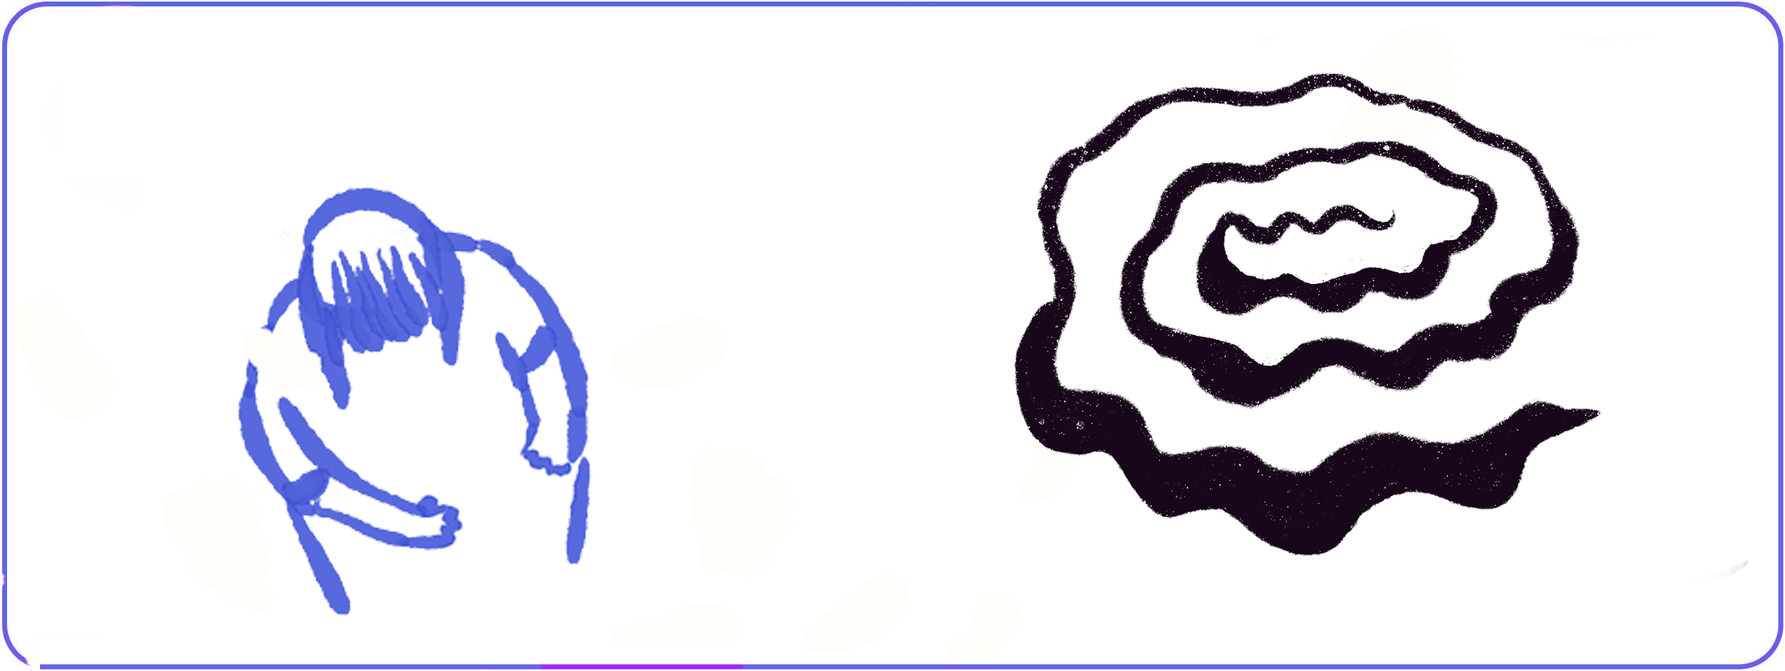
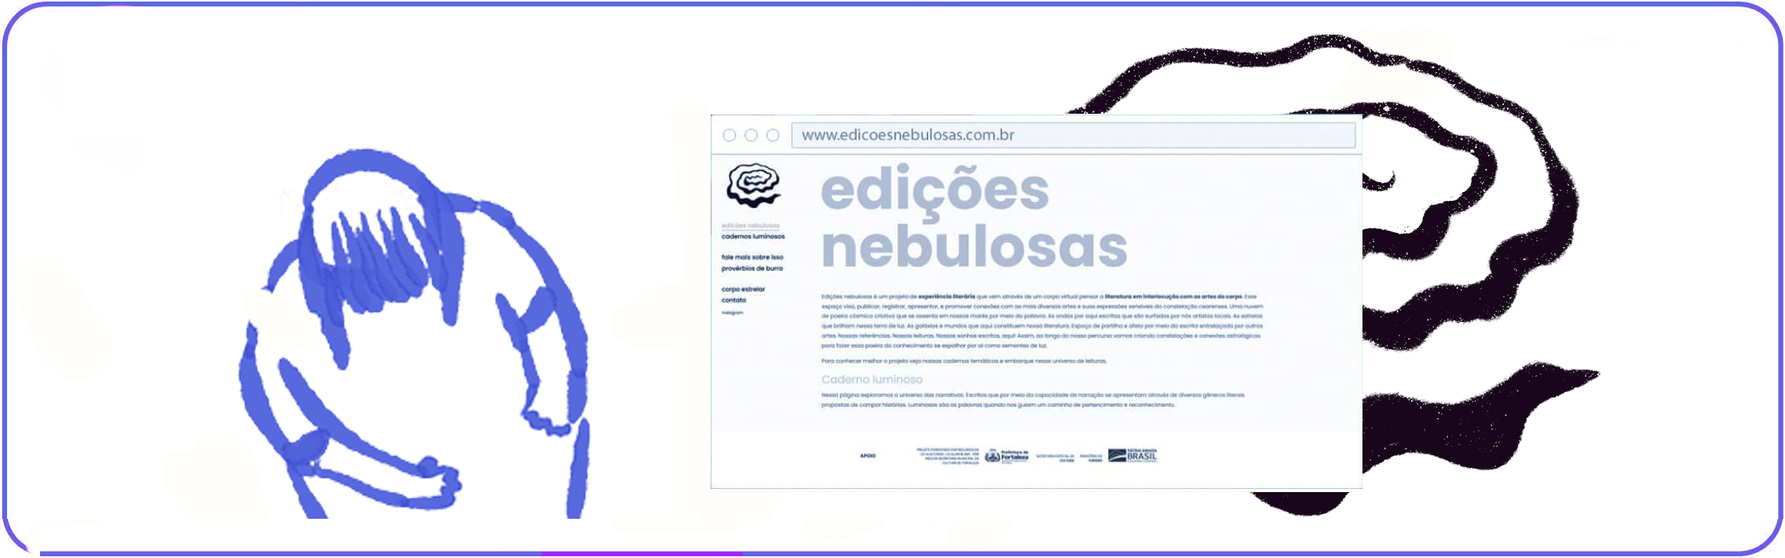
Cases

diff --git a/_site/Nebulosas.html b/_site/Nebulosas.html
@@ -4,7 +4,7 @@
   <meta charset="utf-8">
   <meta name="viewport" content="width=device-width, initial-scale=1.0">
   <title>Edições Nebulosas</title>
-  <meta name="description" content="Leeer é um estudo de caso/projeto pessoal inciado a partir de um prompt do curso de UX Design Master do Google/Coursera.">
+  <meta name="description" content="Projeto de experiência literária que pensa a interlocução entre literatura e as artes do corpo.">
   <link rel="canonical" href="http://localhost:4000/Nebulosas">
   <link rel="alternate" type="application/rss+xml" title="Daniel Neves - UX Designer Feed"
     href="http://localhost:4000/feed.xml">
@@ -61,7 +61,7 @@
     <header class="post-header">
       <h1 class="post-title">Edições Nebulosas</h1>
       <div class="post-meta">
-        <span class="post-tags"> in <a href="/tags/#ux" rel="tag">ux</a>, <a href="/tags/#ilustra%C3%A7%C3%A3o" rel="tag">ilustração</a>, <a href="/tags/#designgr%C3%A1fico" rel="tag">designgráfico</a></span>
+        <span class="post-tags"><a href="/tags/#ux" rel="tag">ux</a>, <a href="/tags/#ilustra%C3%A7%C3%A3o" rel="tag">ilustração</a>, <a href="/tags/#designgr%C3%A1fico" rel="tag">designgráfico</a></span>
       </div><!-- .post-meta -->
       
       <figure class="post-thumbnail image-card width-wide">
@@ -70,49 +70,29 @@
       
     </header><!-- .post-header -->
     <div class="post-content">
-      <p>O protótipo do último projeto em UX/UI Design que está sendo desenvolvido pode ser acessado <a href="https://bit.ly/leeeer_figma">aqui</a>.</p>
-
-<p>A graphic designer is a professional within the graphic design and graphic arts industry who assembles together images, typography, or motion graphics to create a piece of design. A graphic designer creates the graphics primarily for published, printed or electronic media, such as brochures (sometimes) and advertising. They are also sometimes responsible for typesetting, illustration, user interfaces, web design, or take a teaching position. A core responsibility of the designer’s job is to present information in a way that is both accessible and memorable.</p>
+      <p><em>Edições nebulosas</em> é um projeto de experiência literária que pensa a interlocução entre literatura e as artes do corpo. É um espaço que visa, publicar, registrar, apresentar e promover conexões com as mais diversas expressões artísticas e culturais do Ceará por meio da escrita. O projeto pode ser acessado através do link: <a href="https://edicoesnebulosas.github.io/">Edições Nebulosas online</a>.</p>
 
 <!--more-->
 
-<p>A degree or certificate from an accredited trade school is usually considered essential for a graphic design position. After a career history has been established, though, the graphic designer’s experience and number of years in the business are considered the primary qualifications. A portfolio, which is the primary method for demonstrating these qualifications, is usually required to be shown at job interviews, and is constantly developed throughout a designer’s career. [<a href="https://en.wikipedia.org/wiki/Graphic_designer">Source</a>]</p>
+<p>O conceito do projeto partiu do ator dramaturgo <a href="instagram.com/omarcosmiramar/">Marcos Miramar</a> e tive a oportunidade de desenvolver a identidade visual, ilustrações e desenvolvimento front-end.</p>
 
-<p>Ice molecules can exhibit up to sixteen different phases <em>(packing geometries)</em> that depend on temperature and pressure. When water is cooled rapidly (quenching), up to three different types of amorphous ice can form depending on the history of its pressure and temperature. When cooled slowly correlated proton tunneling occurs below 20 K giving rise to macroscopic quantum phenomena. Virtually all the ice on Earth’s surface and in its atmosphere is of a hexagonal crystalline structure denoted as ice Ih (spoken as “ice one h”) with minute traces of cubic ice denoted as ice Ic. The most common phase transition to ice Ih occurs when liquid water is cooled below 0°C (273.15K, 32°F) at standard atmospheric pressure. It may also be deposited directly by water vapor, as happens in the formation of frost. The transition from ice to water is melting and from ice directly to water vapor is sublimation.</p>
-
-<h2 id="characteristics">Characteristics</h2>
-
-<p>As a naturally-occurring crystalline inorganic solid with an ordered structure, ice is considered a mineral.[citation needed] It possesses a regular crystalline structure based on the molecule of water, which consists of a single oxygen atom covalently bonded to two hydrogen atoms, or H-O-H. However, many of the physical properties of water and ice are controlled by the formation of hydrogen bonds between adjacent oxygen and hydrogen atoms; while it is a weak bond, it is nonetheless critical in controlling the structure of both water and ice.</p>
-
-<blockquote>
-  <p>“ice contains no future , just the past, sealed away. As if they’re alive, everything in the world is sealed up inside, clear and distinct. Ice can preserve all kinds of things that way- cleanly, clearly. That’s the essence of ice, the role it plays.” 
-<cite>― Haruki Murakami</cite></p>
-</blockquote>
-
-<p>An unusual property of ice frozen at atmospheric pressure is that the solid is approximately 8.3% less dense than liquid water. The density of ice is 0.9167 g/cm3 at 0 °C,[4] whereas water has a density of 0.9998 g/cm³ at the same temperature. Liquid water is densest, essentially 1.00 g/cm³, at 4 °C and becomes less dense as the water molecules begin to form the hexagonal crystals[5] of ice as the freezing point is reached. This is due to hydrogen bonding dominating the intermolecular forces, which results in a packing of molecules less compact in the solid. Density of ice increases slightly with decreasing temperature and has a value of 0.9340 g/cm³ at −180 °C (93 K).[6]</p>
-
-<p>When water freezes, it increases in volume (about 9% for freshwater).[7] The effect of expansion during freezing can be dramatic, and ice expansion is a basic cause of freeze-thaw weathering of rock in nature and damage to building foundations and roadways from frost heaving. It is also a common cause of the flooding of houses when water pipes burst due to the pressure of expanding water when it freezes.</p>
-
-<p>The result of this process is that ice <em>(in its most common form)</em> floats on liquid water, which is an important feature in Earth’s biosphere. It has been argued that without this property, natural bodies of water would freeze, in some cases permanently, from the bottom up,[8] resulting in a loss of bottom-dependent animal and plant life in fresh and sea water. Sufficiently thin ice sheets allow light to pass through while protecting the underside from short-term weather extremes such as wind chill. This creates a sheltered environment for bacterial and algal colonies. When sea water freezes, the ice is riddled with brine-filled channels which sustain sympagic organisms such as bacteria, algae, copepods and annelids, which in turn provide food for animals such as krill and specialised fish like the bald notothen, fed upon in turn by larger animals such as emperor penguins and minke whales.</p>
-
-<p>When ice melts, it absorbs as much energy as it would take to heat an equivalent mass of water by 80 °C. During the melting process, the temperature remains constant at 0 °C. While melting, any energy added breaks the hydrogen bonds between ice (water) molecules. Energy becomes available to increase the thermal energy (temperature) only after enough hydrogen bonds are broken that the ice can be considered liquid water. The amount of energy consumed in breaking hydrogen bonds in the transition from ice to water is known as the heat of fusion.</p>
-
-<p>As with water, ice absorbs light at the red end of the spectrum preferentially as the result of an overtone of an oxygen-hydrogen (O-H) bond stretch. Compared with water, this absorption is shifted toward slightly lower energies. Thus, ice appears blue, with a slightly greener tint than for liquid water. Since absorption is cumulative, the color effect intensifies with increasing thickness or if internal reflections cause the light to take a longer path through the ice.</p>
 
     </div><!-- .post-content -->
-    <div class="post-share">
+    <!-- <div class="post-share">
       <span>Compartilhar:</span>
       <a target="_blank"
         href="https://twitter.com/intent/tweet?text=Edi%C3%A7%C3%B5es%20Nebulosas&amp;url=http://localhost:4000/Nebulosas" rel="noopener">Twitter</a>
       <a target="_blank"
         href="https://www.facebook.com/sharer/sharer.php?u=http://localhost:4000/Nebulosas&amp;t=Edi%C3%A7%C3%B5es%20Nebulosas" rel="noopener">Facebook</a>
-    </div><!-- .share-post -->
+    </div> -->
+    <br>
+    <!-- .share-post -->
     <div class="author-box">
       
-      <div class="author-avatar" style="background-image: url('images/author.png')"><span class="screen-reader-text">Daniel neves's Picture</span></div>
+      <div class="author-avatar" style="background-image: url('images/author.png')"><span class="screen-reader-text">Daniel Neves's Picture</span></div>
       
       <div class="author-details">
-        <h2 class="author-title">About Daniel neves</h2>
+        <h2 class="author-title"> Daniel Neves</h2>
         <div class="author-bio"><p>Designer que gosta de desenhar e ilustrar. Vegetariano, ciclista e super fã da Nintendo.</p>
 </div>
         

diff --git a/_site/Leeer.html b/_site/Leeer.html
@@ -61,7 +61,7 @@
     <header class="post-header">
       <h1 class="post-title">Leeer - Uma experiência para descobrir novas leituras</h1>
       <div class="post-meta">
-        <span class="post-tags"> in <a href="/tags/#ux" rel="tag">ux</a>, <a href="/tags/#wip" rel="tag">wip</a></span>
+        <span class="post-tags"><a href="/tags/#ux" rel="tag">ux</a>, <a href="/tags/#wip" rel="tag">wip</a></span>
       </div><!-- .post-meta -->
       
       <figure class="post-thumbnail image-card width-wide">
@@ -70,49 +70,32 @@
       
     </header><!-- .post-header -->
     <div class="post-content">
-      <p>O protótipo do último projeto em UX/UI Design que está sendo desenvolvido pode ser acessado <a href="https://bit.ly/leeeer_figma">aqui</a>.</p>
-
-<p>A graphic designer is a professional within the graphic design and graphic arts industry who assembles together images, typography, or motion graphics to create a piece of design. A graphic designer creates the graphics primarily for published, printed or electronic media, such as brochures (sometimes) and advertising. They are also sometimes responsible for typesetting, illustration, user interfaces, web design, or take a teaching position. A core responsibility of the designer’s job is to present information in a way that is both accessible and memorable.</p>
+      <p>Leeer é um estudo de caso/projeto pessoal inciado a partir de um prompt do curso de UX Design Master do Google/Coursera.</p>
 
 <!--more-->
 
-<p>A degree or certificate from an accredited trade school is usually considered essential for a graphic design position. After a career history has been established, though, the graphic designer’s experience and number of years in the business are considered the primary qualifications. A portfolio, which is the primary method for demonstrating these qualifications, is usually required to be shown at job interviews, and is constantly developed throughout a designer’s career. [<a href="https://en.wikipedia.org/wiki/Graphic_designer">Source</a>]</p>
+<p>Trabalho em Progresso</p>
 
-<p>Ice molecules can exhibit up to sixteen different phases <em>(packing geometries)</em> that depend on temperature and pressure. When water is cooled rapidly (quenching), up to three different types of amorphous ice can form depending on the history of its pressure and temperature. When cooled slowly correlated proton tunneling occurs below 20 K giving rise to macroscopic quantum phenomena. Virtually all the ice on Earth’s surface and in its atmosphere is of a hexagonal crystalline structure denoted as ice Ih (spoken as “ice one h”) with minute traces of cubic ice denoted as ice Ic. The most common phase transition to ice Ih occurs when liquid water is cooled below 0°C (273.15K, 32°F) at standard atmospheric pressure. It may also be deposited directly by water vapor, as happens in the formation of frost. The transition from ice to water is melting and from ice directly to water vapor is sublimation.</p>
+<p>Este é um trabalho em progresso. Tanto o case quanto o protótipo estão sendo desenvolvidos no decorrer do curso.</p>
 
-<h2 id="characteristics">Characteristics</h2>
-
-<p>As a naturally-occurring crystalline inorganic solid with an ordered structure, ice is considered a mineral.[citation needed] It possesses a regular crystalline structure based on the molecule of water, which consists of a single oxygen atom covalently bonded to two hydrogen atoms, or H-O-H. However, many of the physical properties of water and ice are controlled by the formation of hydrogen bonds between adjacent oxygen and hydrogen atoms; while it is a weak bond, it is nonetheless critical in controlling the structure of both water and ice.</p>
-
-<blockquote>
-  <p>“ice contains no future , just the past, sealed away. As if they’re alive, everything in the world is sealed up inside, clear and distinct. Ice can preserve all kinds of things that way- cleanly, clearly. That’s the essence of ice, the role it plays.” 
-<cite>― Haruki Murakami</cite></p>
-</blockquote>
-
-<p>An unusual property of ice frozen at atmospheric pressure is that the solid is approximately 8.3% less dense than liquid water. The density of ice is 0.9167 g/cm3 at 0 °C,[4] whereas water has a density of 0.9998 g/cm³ at the same temperature. Liquid water is densest, essentially 1.00 g/cm³, at 4 °C and becomes less dense as the water molecules begin to form the hexagonal crystals[5] of ice as the freezing point is reached. This is due to hydrogen bonding dominating the intermolecular forces, which results in a packing of molecules less compact in the solid. Density of ice increases slightly with decreasing temperature and has a value of 0.9340 g/cm³ at −180 °C (93 K).[6]</p>
-
-<p>When water freezes, it increases in volume (about 9% for freshwater).[7] The effect of expansion during freezing can be dramatic, and ice expansion is a basic cause of freeze-thaw weathering of rock in nature and damage to building foundations and roadways from frost heaving. It is also a common cause of the flooding of houses when water pipes burst due to the pressure of expanding water when it freezes.</p>
-
-<p>The result of this process is that ice <em>(in its most common form)</em> floats on liquid water, which is an important feature in Earth’s biosphere. It has been argued that without this property, natural bodies of water would freeze, in some cases permanently, from the bottom up,[8] resulting in a loss of bottom-dependent animal and plant life in fresh and sea water. Sufficiently thin ice sheets allow light to pass through while protecting the underside from short-term weather extremes such as wind chill. This creates a sheltered environment for bacterial and algal colonies. When sea water freezes, the ice is riddled with brine-filled channels which sustain sympagic organisms such as bacteria, algae, copepods and annelids, which in turn provide food for animals such as krill and specialised fish like the bald notothen, fed upon in turn by larger animals such as emperor penguins and minke whales.</p>
-
-<p>When ice melts, it absorbs as much energy as it would take to heat an equivalent mass of water by 80 °C. During the melting process, the temperature remains constant at 0 °C. While melting, any energy added breaks the hydrogen bonds between ice (water) molecules. Energy becomes available to increase the thermal energy (temperature) only after enough hydrogen bonds are broken that the ice can be considered liquid water. The amount of energy consumed in breaking hydrogen bonds in the transition from ice to water is known as the heat of fusion.</p>
-
-<p>As with water, ice absorbs light at the red end of the spectrum preferentially as the result of an overtone of an oxygen-hydrogen (O-H) bond stretch. Compared with water, this absorption is shifted toward slightly lower energies. Thus, ice appears blue, with a slightly greener tint than for liquid water. Since absorption is cumulative, the color effect intensifies with increasing thickness or if internal reflections cause the light to take a longer path through the ice.</p>
+<p>A primeira versão com alguns fluxos podem ser acessados neste link <a href="https://bit.ly/leeeer_figma">aqui</a>.</p>
 
     </div><!-- .post-content -->
-    <div class="post-share">
+    <!-- <div class="post-share">
       <span>Compartilhar:</span>
       <a target="_blank"
         href="https://twitter.com/intent/tweet?text=Leeer%20-%20Uma%20experi%C3%AAncia%20para%20descobrir%20novas%20leituras&amp;url=http://localhost:4000/Leeer" rel="noopener">Twitter</a>
       <a target="_blank"
         href="https://www.facebook.com/sharer/sharer.php?u=http://localhost:4000/Leeer&amp;t=Leeer%20-%20Uma%20experi%C3%AAncia%20para%20descobrir%20novas%20leituras" rel="noopener">Facebook</a>
-    </div><!-- .share-post -->
+    </div> -->
+    <br>
+    <!-- .share-post -->
     <div class="author-box">
       
-      <div class="author-avatar" style="background-image: url('images/author.png')"><span class="screen-reader-text">Daniel neves's Picture</span></div>
+      <div class="author-avatar" style="background-image: url('images/author.png')"><span class="screen-reader-text">Daniel Neves's Picture</span></div>
       
       <div class="author-details">
-        <h2 class="author-title">About Daniel neves</h2>
+        <h2 class="author-title"> Daniel Neves</h2>
         <div class="author-bio"><p>Designer que gosta de desenhar e ilustrar. Vegetariano, ciclista e super fã da Nintendo.</p>
 </div>
         

diff --git a/_site/index.html b/_site/index.html
@@ -100,9 +100,7 @@ Abaixo estão alguns projetos que desenvolvi e que venho desenvolvendo nos últi
     </header><!-- .post-header -->
     <div class="post-content">
       
-      <p>O protótipo do último projeto em UX/UI Design que está sendo desenvolvido pode ser acessado <a href="https://bit.ly/leeeer_figma">aqui</a>.</p>
-
-<p>A graphic designer is a professional within the graphic design and graphic arts industry who assembles together images, typography, or motion graphics to create a piece of design. A graphic designer creates the graphics primarily for published, printed or electronic media, such as brochures (sometimes) and advertising. They are also sometimes responsible for typesetting, illustration, user interfaces, web design, or take a teaching position. A core responsibility of the designer’s job is to present information in a way that is both accessible and memorable.</p>
+      <p>Leeer é um estudo de caso/projeto pessoal inciado a partir de um prompt do curso de UX Design Master do Google/Coursera.</p>
 
 
       <p class="read-more"><a href="/Leeer" class="read-more-link">Continuar lendo &rarr;</a>
@@ -128,9 +126,7 @@ Abaixo estão alguns projetos que desenvolvi e que venho desenvolvendo nos últi
     </header><!-- .post-header -->
     <div class="post-content">
       
-      <p>O protótipo do último projeto em UX/UI Design que está sendo desenvolvido pode ser acessado <a href="https://bit.ly/leeeer_figma">aqui</a>.</p>
-
-<p>A graphic designer is a professional within the graphic design and graphic arts industry who assembles together images, typography, or motion graphics to create a piece of design. A graphic designer creates the graphics primarily for published, printed or electronic media, such as brochures (sometimes) and advertising. They are also sometimes responsible for typesetting, illustration, user interfaces, web design, or take a teaching position. A core responsibility of the designer’s job is to present information in a way that is both accessible and memorable.</p>
+      <p><em>Edições nebulosas</em> é um projeto de experiência literária que pensa a interlocução entre literatura e as artes do corpo. É um espaço que visa, publicar, registrar, apresentar e promover conexões com as mais diversas expressões artísticas e culturais do Ceará por meio da escrita. O projeto pode ser acessado através do link: <a href="https://edicoesnebulosas.github.io/">Edições Nebulosas online</a>.</p>
 
 
       <p class="read-more"><a href="/Nebulosas" class="read-more-link">Continuar lendo &rarr;</a>

diff --git a/_layouts/post.html b/_layouts/post.html
@@ -8,7 +8,7 @@ layout: default
     <header class="post-header">
       <h1 class="post-title">{{page.title}}</h1>
       <div class="post-meta">
-        {% if page.tags.size > 0 %}<span class="post-tags"> in {% for tag in page.tags %}<a href="{{ site.baseurl }}/tags/#{{ tag | cgi_escape }}" rel="tag">{{ tag }}</a>{% unless forloop.last %}, {% endunless %}{% endfor %}</span>{% endif %}
+        {% if page.tags.size > 0 %}<span class="post-tags">{% for tag in page.tags %}<a href="{{ site.baseurl }}/tags/#{{ tag | cgi_escape }}" rel="tag">{{ tag }}</a>{% unless forloop.last %}, {% endunless %}{% endfor %}</span>{% endif %}
       </div><!-- .post-meta -->
       {% if page.feature_image and page.feature_image != "" %}
       <figure class="post-thumbnail image-card width-wide">
@@ -19,19 +19,21 @@ layout: default
     <div class="post-content">
       {{content}}
     </div><!-- .post-content -->
-    <div class="post-share">
+    <!-- <div class="post-share">
       <span>Compartilhar:</span>
       <a target="_blank"
         href="https://twitter.com/intent/tweet?text={{ page.title | uri_escape }}&amp;url={{ page.url | absolute_url }}" rel="noopener">Twitter</a>
       <a target="_blank"
         href="https://www.facebook.com/sharer/sharer.php?u={{ page.url | absolute_url }}&amp;t={{ page.title | uri_escape }}" rel="noopener">Facebook</a>
-    </div><!-- .share-post -->
+    </div> -->
+    <br>
+    <!-- .share-post -->
     <div class="author-box">
       {% if site.data.author.image and site.data.author.image != "" %}
       <div class="author-avatar" style="background-image: url('{{ site.data.author.image }}')"><span class="screen-reader-text">{{ site.data.author.name }}'s Picture</span></div>
       {% endif %}
       <div class="author-details">
-        <h2 class="author-title">About {{ site.data.author.name }}</h2>
+        <h2 class="author-title"> {{ site.data.author.name }}</h2>
         <div class="author-bio">{{ site.data.author.bio | markdownify }}</div>
         {% if site.data.author.location and site.data.author.location != "" %}
         <span class="author-location">{{ site.data.author.location}}</span>

diff --git a/_site/contato.html b/_site/contato.html
@@ -62,17 +62,9 @@
       
     </header><!-- .post-header -->
     <div class="post-content">
-      <p><strong>John Doe</strong> is a Senior Art Director from <a href="https://en.wikipedia.org/wiki/Vilnius">Vilnius</a>, Lithuania. After graduating from The College of Visual Arts with a degree in Communication Design, he worked for three small graphic design shops where he honed his design style and sensibility.</p>
-
-<p>His work has been recognized by Communication Arts, Print, How, ID, IdN, AIGA, Effie, Archive, Graphis, AdFed and Rockport. Graphic Design USA named him a person to watch in 2015.</p>
-
-<blockquote>
-  <p>The world always seems brighter when you’ve just made something that wasn’t there before. <cite>Neil Gaiman</cite></p>
+      <blockquote>
+  <p>contato@danielneves.com</p>
 </blockquote>
-
-<p>As a hobby, John Doe authors the most influential design blog in Lithuania with over 100,000 page views a month. He lives in Vilnius with his beautiful wife, two boys and one girl.</p>
-
-<p><em>Thank You for reading!</em></p>
 
     </div><!-- .post-content -->
   </article><!-- .post -->

diff --git a/_posts/2021-01-12-Nebulosas.md b/_posts/2021-01-12-Nebulosas.md
@@ -1,36 +1,18 @@
 ---
 layout: post
 title: "Edições Nebulosas"
-description: "Leeer é um estudo de caso/projeto pessoal inciado a partir de um prompt do curso de UX Design Master do Google/Coursera."
+description: "Projeto de experiência literária que pensa a interlocução entre literatura e as artes do corpo."
 date: 2022-01-01
 feature_image: /files/img/nebu.png
 tags: [ux, ilustração, designgráfico]
 ---
 
-<p>O protótipo do último projeto em UX/UI Design que está sendo desenvolvido pode ser acessado <a href="https://bit.ly/leeeer_figma">aqui</a>.</p>
 
 
-A graphic designer is a professional within the graphic design and graphic arts industry who assembles together images, typography, or motion graphics to create a piece of design. A graphic designer creates the graphics primarily for published, printed or electronic media, such as brochures (sometimes) and advertising. They are also sometimes responsible for typesetting, illustration, user interfaces, web design, or take a teaching position. A core responsibility of the designer's job is to present information in a way that is both accessible and memorable.
+
+_Edições nebulosas_ é um projeto de experiência literária que pensa a interlocução entre literatura e as artes do corpo. É um espaço que visa, publicar, registrar, apresentar e promover conexões com as mais diversas expressões artísticas e culturais do Ceará por meio da escrita. O projeto pode ser acessado através do link: [Edições Nebulosas online](https://edicoesnebulosas.github.io/).
 
 <!--more-->
 
-A degree or certificate from an accredited trade school is usually considered essential for a graphic design position. After a career history has been established, though, the graphic designer's experience and number of years in the business are considered the primary qualifications. A portfolio, which is the primary method for demonstrating these qualifications, is usually required to be shown at job interviews, and is constantly developed throughout a designer's career. [[Source](https://en.wikipedia.org/wiki/Graphic_designer)]
+O conceito do projeto partiu do ator dramaturgo [Marcos Miramar](instagram.com/omarcosmiramar/) e tive a oportunidade de desenvolver a identidade visual, ilustrações e desenvolvimento front-end.
 
-Ice molecules can exhibit up to sixteen different phases *(packing geometries)* that depend on temperature and pressure. When water is cooled rapidly (quenching), up to three different types of amorphous ice can form depending on the history of its pressure and temperature. When cooled slowly correlated proton tunneling occurs below 20 K giving rise to macroscopic quantum phenomena. Virtually all the ice on Earth's surface and in its atmosphere is of a hexagonal crystalline structure denoted as ice Ih (spoken as "ice one h") with minute traces of cubic ice denoted as ice Ic. The most common phase transition to ice Ih occurs when liquid water is cooled below 0°C (273.15K, 32°F) at standard atmospheric pressure. It may also be deposited directly by water vapor, as happens in the formation of frost. The transition from ice to water is melting and from ice directly to water vapor is sublimation.
-
-## Characteristics
-
-As a naturally-occurring crystalline inorganic solid with an ordered structure, ice is considered a mineral.[citation needed] It possesses a regular crystalline structure based on the molecule of water, which consists of a single oxygen atom covalently bonded to two hydrogen atoms, or H-O-H. However, many of the physical properties of water and ice are controlled by the formation of hydrogen bonds between adjacent oxygen and hydrogen atoms; while it is a weak bond, it is nonetheless critical in controlling the structure of both water and ice.
-
-> “ice contains no future , just the past, sealed away. As if they're alive, everything in the world is sealed up inside, clear and distinct. Ice can preserve all kinds of things that way- cleanly, clearly. That's the essence of ice, the role it plays.” 
-> <cite>― Haruki Murakami</cite>
-
-An unusual property of ice frozen at atmospheric pressure is that the solid is approximately 8.3% less dense than liquid water. The density of ice is 0.9167 g/cm3 at 0 °C,[4] whereas water has a density of 0.9998 g/cm³ at the same temperature. Liquid water is densest, essentially 1.00 g/cm³, at 4 °C and becomes less dense as the water molecules begin to form the hexagonal crystals[5] of ice as the freezing point is reached. This is due to hydrogen bonding dominating the intermolecular forces, which results in a packing of molecules less compact in the solid. Density of ice increases slightly with decreasing temperature and has a value of 0.9340 g/cm³ at −180 °C (93 K).[6]
-
-When water freezes, it increases in volume (about 9% for freshwater).[7] The effect of expansion during freezing can be dramatic, and ice expansion is a basic cause of freeze-thaw weathering of rock in nature and damage to building foundations and roadways from frost heaving. It is also a common cause of the flooding of houses when water pipes burst due to the pressure of expanding water when it freezes.
-
-The result of this process is that ice *(in its most common form)* floats on liquid water, which is an important feature in Earth's biosphere. It has been argued that without this property, natural bodies of water would freeze, in some cases permanently, from the bottom up,[8] resulting in a loss of bottom-dependent animal and plant life in fresh and sea water. Sufficiently thin ice sheets allow light to pass through while protecting the underside from short-term weather extremes such as wind chill. This creates a sheltered environment for bacterial and algal colonies. When sea water freezes, the ice is riddled with brine-filled channels which sustain sympagic organisms such as bacteria, algae, copepods and annelids, which in turn provide food for animals such as krill and specialised fish like the bald notothen, fed upon in turn by larger animals such as emperor penguins and minke whales.
-
-When ice melts, it absorbs as much energy as it would take to heat an equivalent mass of water by 80 °C. During the melting process, the temperature remains constant at 0 °C. While melting, any energy added breaks the hydrogen bonds between ice (water) molecules. Energy becomes available to increase the thermal energy (temperature) only after enough hydrogen bonds are broken that the ice can be considered liquid water. The amount of energy consumed in breaking hydrogen bonds in the transition from ice to water is known as the heat of fusion.
-
-As with water, ice absorbs light at the red end of the spectrum preferentially as the result of an overtone of an oxygen-hydrogen (O-H) bond stretch. Compared with water, this absorption is shifted toward slightly lower energies. Thus, ice appears blue, with a slightly greener tint than for liquid water. Since absorption is cumulative, the color effect intensifies with increasing thickness or if internal reflections cause the light to take a longer path through the ice.

diff --git a/_posts/2022-01-01-Leeer.md b/_posts/2022-01-01-Leeer.md
@@ -7,30 +7,14 @@ feature_image: /files/img/leer.jpg
 tags: [ux, wip]
 ---
 
-<p>O protótipo do último projeto em UX/UI Design que está sendo desenvolvido pode ser acessado <a href="https://bit.ly/leeeer_figma">aqui</a>.</p>
+Leeer é um estudo de caso/projeto pessoal inciado a partir de um prompt do curso de UX Design Master do Google/Coursera.
 
 
-A graphic designer is a professional within the graphic design and graphic arts industry who assembles together images, typography, or motion graphics to create a piece of design. A graphic designer creates the graphics primarily for published, printed or electronic media, such as brochures (sometimes) and advertising. They are also sometimes responsible for typesetting, illustration, user interfaces, web design, or take a teaching position. A core responsibility of the designer's job is to present information in a way that is both accessible and memorable.
 
 <!--more-->
 
-A degree or certificate from an accredited trade school is usually considered essential for a graphic design position. After a career history has been established, though, the graphic designer's experience and number of years in the business are considered the primary qualifications. A portfolio, which is the primary method for demonstrating these qualifications, is usually required to be shown at job interviews, and is constantly developed throughout a designer's career. [[Source](https://en.wikipedia.org/wiki/Graphic_designer)]
+Trabalho em Progresso
 
-Ice molecules can exhibit up to sixteen different phases *(packing geometries)* that depend on temperature and pressure. When water is cooled rapidly (quenching), up to three different types of amorphous ice can form depending on the history of its pressure and temperature. When cooled slowly correlated proton tunneling occurs below 20 K giving rise to macroscopic quantum phenomena. Virtually all the ice on Earth's surface and in its atmosphere is of a hexagonal crystalline structure denoted as ice Ih (spoken as "ice one h") with minute traces of cubic ice denoted as ice Ic. The most common phase transition to ice Ih occurs when liquid water is cooled below 0°C (273.15K, 32°F) at standard atmospheric pressure. It may also be deposited directly by water vapor, as happens in the formation of frost. The transition from ice to water is melting and from ice directly to water vapor is sublimation.
+Este é um trabalho em progresso. Tanto o case quanto o protótipo estão sendo desenvolvidos no decorrer do curso.
 
-## Characteristics
-
-As a naturally-occurring crystalline inorganic solid with an ordered structure, ice is considered a mineral.[citation needed] It possesses a regular crystalline structure based on the molecule of water, which consists of a single oxygen atom covalently bonded to two hydrogen atoms, or H-O-H. However, many of the physical properties of water and ice are controlled by the formation of hydrogen bonds between adjacent oxygen and hydrogen atoms; while it is a weak bond, it is nonetheless critical in controlling the structure of both water and ice.
-
-> “ice contains no future , just the past, sealed away. As if they're alive, everything in the world is sealed up inside, clear and distinct. Ice can preserve all kinds of things that way- cleanly, clearly. That's the essence of ice, the role it plays.” 
-> <cite>― Haruki Murakami</cite>
-
-An unusual property of ice frozen at atmospheric pressure is that the solid is approximately 8.3% less dense than liquid water. The density of ice is 0.9167 g/cm3 at 0 °C,[4] whereas water has a density of 0.9998 g/cm³ at the same temperature. Liquid water is densest, essentially 1.00 g/cm³, at 4 °C and becomes less dense as the water molecules begin to form the hexagonal crystals[5] of ice as the freezing point is reached. This is due to hydrogen bonding dominating the intermolecular forces, which results in a packing of molecules less compact in the solid. Density of ice increases slightly with decreasing temperature and has a value of 0.9340 g/cm³ at −180 °C (93 K).[6]
-
-When water freezes, it increases in volume (about 9% for freshwater).[7] The effect of expansion during freezing can be dramatic, and ice expansion is a basic cause of freeze-thaw weathering of rock in nature and damage to building foundations and roadways from frost heaving. It is also a common cause of the flooding of houses when water pipes burst due to the pressure of expanding water when it freezes.
-
-The result of this process is that ice *(in its most common form)* floats on liquid water, which is an important feature in Earth's biosphere. It has been argued that without this property, natural bodies of water would freeze, in some cases permanently, from the bottom up,[8] resulting in a loss of bottom-dependent animal and plant life in fresh and sea water. Sufficiently thin ice sheets allow light to pass through while protecting the underside from short-term weather extremes such as wind chill. This creates a sheltered environment for bacterial and algal colonies. When sea water freezes, the ice is riddled with brine-filled channels which sustain sympagic organisms such as bacteria, algae, copepods and annelids, which in turn provide food for animals such as krill and specialised fish like the bald notothen, fed upon in turn by larger animals such as emperor penguins and minke whales.
-
-When ice melts, it absorbs as much energy as it would take to heat an equivalent mass of water by 80 °C. During the melting process, the temperature remains constant at 0 °C. While melting, any energy added breaks the hydrogen bonds between ice (water) molecules. Energy becomes available to increase the thermal energy (temperature) only after enough hydrogen bonds are broken that the ice can be considered liquid water. The amount of energy consumed in breaking hydrogen bonds in the transition from ice to water is known as the heat of fusion.
-
-As with water, ice absorbs light at the red end of the spectrum preferentially as the result of an overtone of an oxygen-hydrogen (O-H) bond stretch. Compared with water, this absorption is shifted toward slightly lower energies. Thus, ice appears blue, with a slightly greener tint than for liquid water. Since absorption is cumulative, the color effect intensifies with increasing thickness or if internal reflections cause the light to take a longer path through the ice.
+<p>A primeira versão com alguns fluxos podem ser acessados neste link <a href="https://bit.ly/leeeer_figma">aqui</a>.</p>

diff --git a/contato.md b/contato.md
@@ -4,12 +4,5 @@ title: Contato
 description: Entrar em contato com Daniel Neves
 ---
 
-**John Doe** is a Senior Art Director from [Vilnius](https://en.wikipedia.org/wiki/Vilnius), Lithuania. After graduating from The College of Visual Arts with a degree in Communication Design, he worked for three small graphic design shops where he honed his design style and sensibility.
 
-His work has been recognized by Communication Arts, Print, How, ID, IdN, AIGA, Effie, Archive, Graphis, AdFed and Rockport. Graphic Design USA named him a person to watch in 2015.
-
->The world always seems brighter when you’ve just made something that wasn’t there before. <cite>Neil Gaiman</cite>
-
-As a hobby, John Doe authors the most influential design blog in Lithuania with over 100,000 page views a month. He lives in Vilnius with his beautiful wife, two boys and one girl.
-
-*Thank You for reading!*
+>contato@danielneves.com
